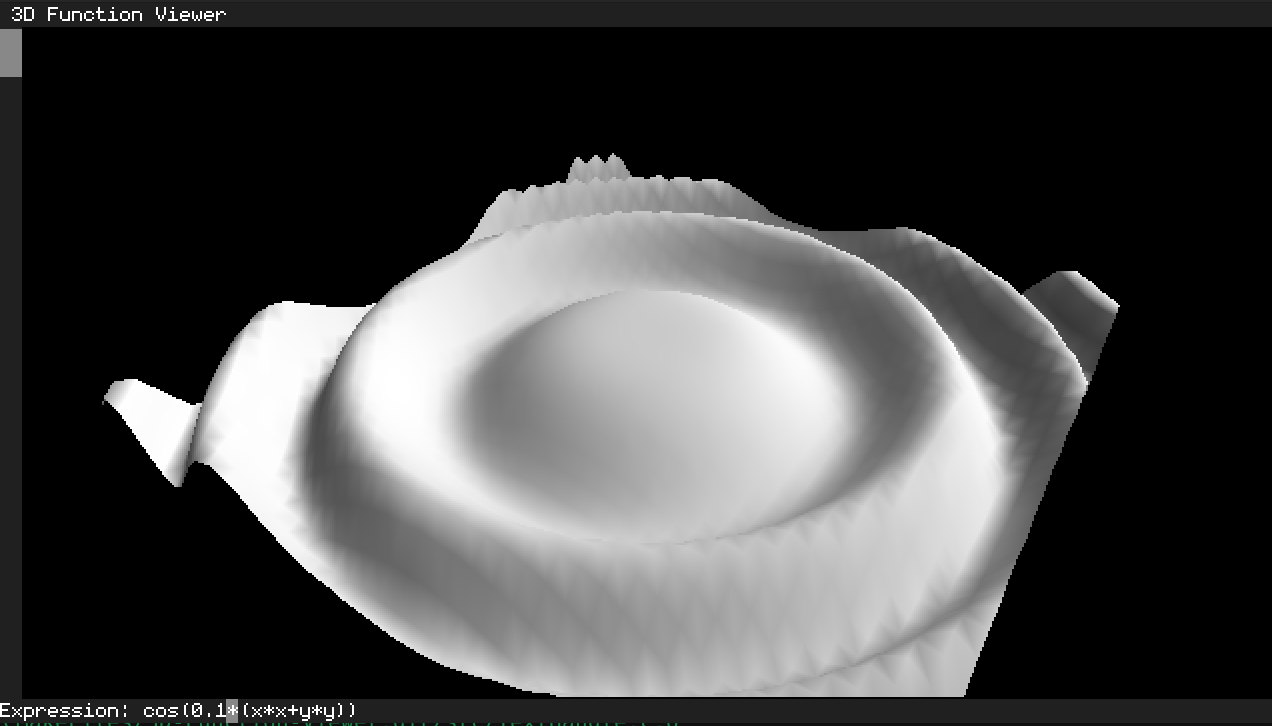
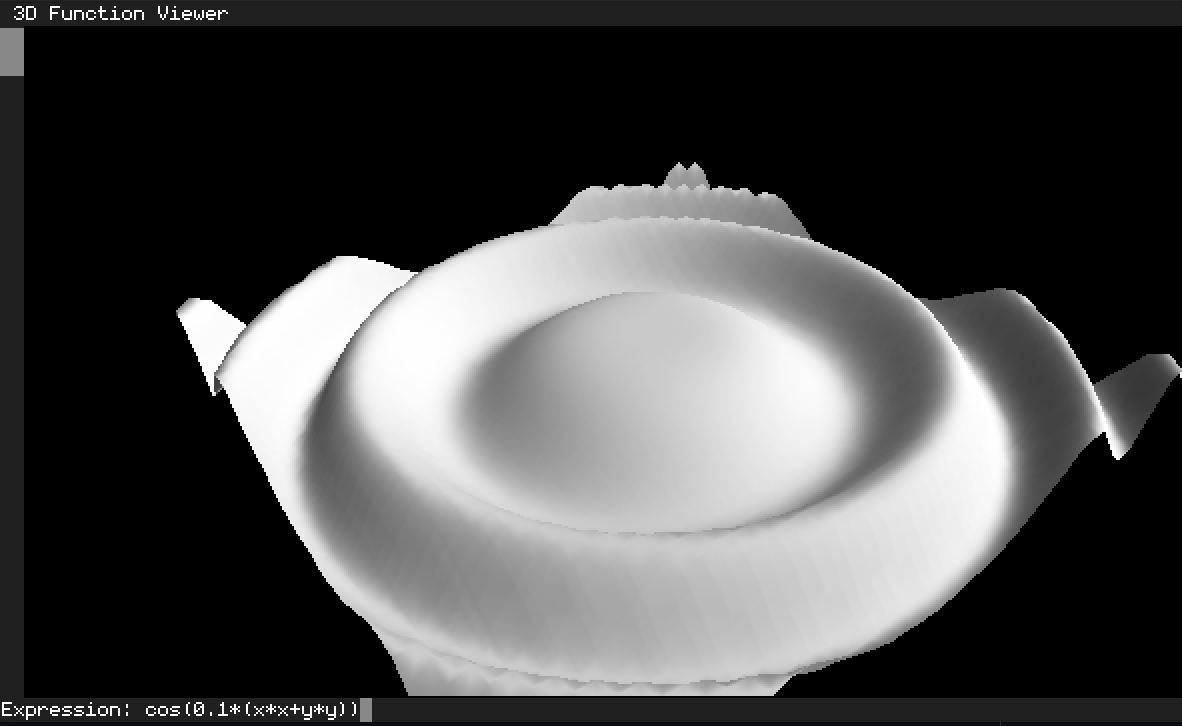
updated cmake and readme

Changed region(s): [[0.0, 0.2121, 1.0, 1.0], [0.0, 0.0, 0.1827, 0.1212]]

diff --git a/README.md b/README.md
@@ -9,7 +9,7 @@ This program can be used to view a variety of functions of type `z = f(x,y)`
 through many different angles.
 
 **3D Function Viewer** only depends on **SDL3**, CMake, the C standard library
-and a few single-header files that are already included in this repository.
+and a few single-header libraries that are already included in this repository.
 
 # Building
 
@@ -28,7 +28,7 @@ If you want to compile this application to webassembly, here are the steps:
 ```
 git clone --recursive https://github.com/GabrielMtins/3D-Function-Viewer.git
 cd 3D-Function-Viewer
-emcmake -B build
+emcmake cmake -B build
 cmake --build build
 ```
 
